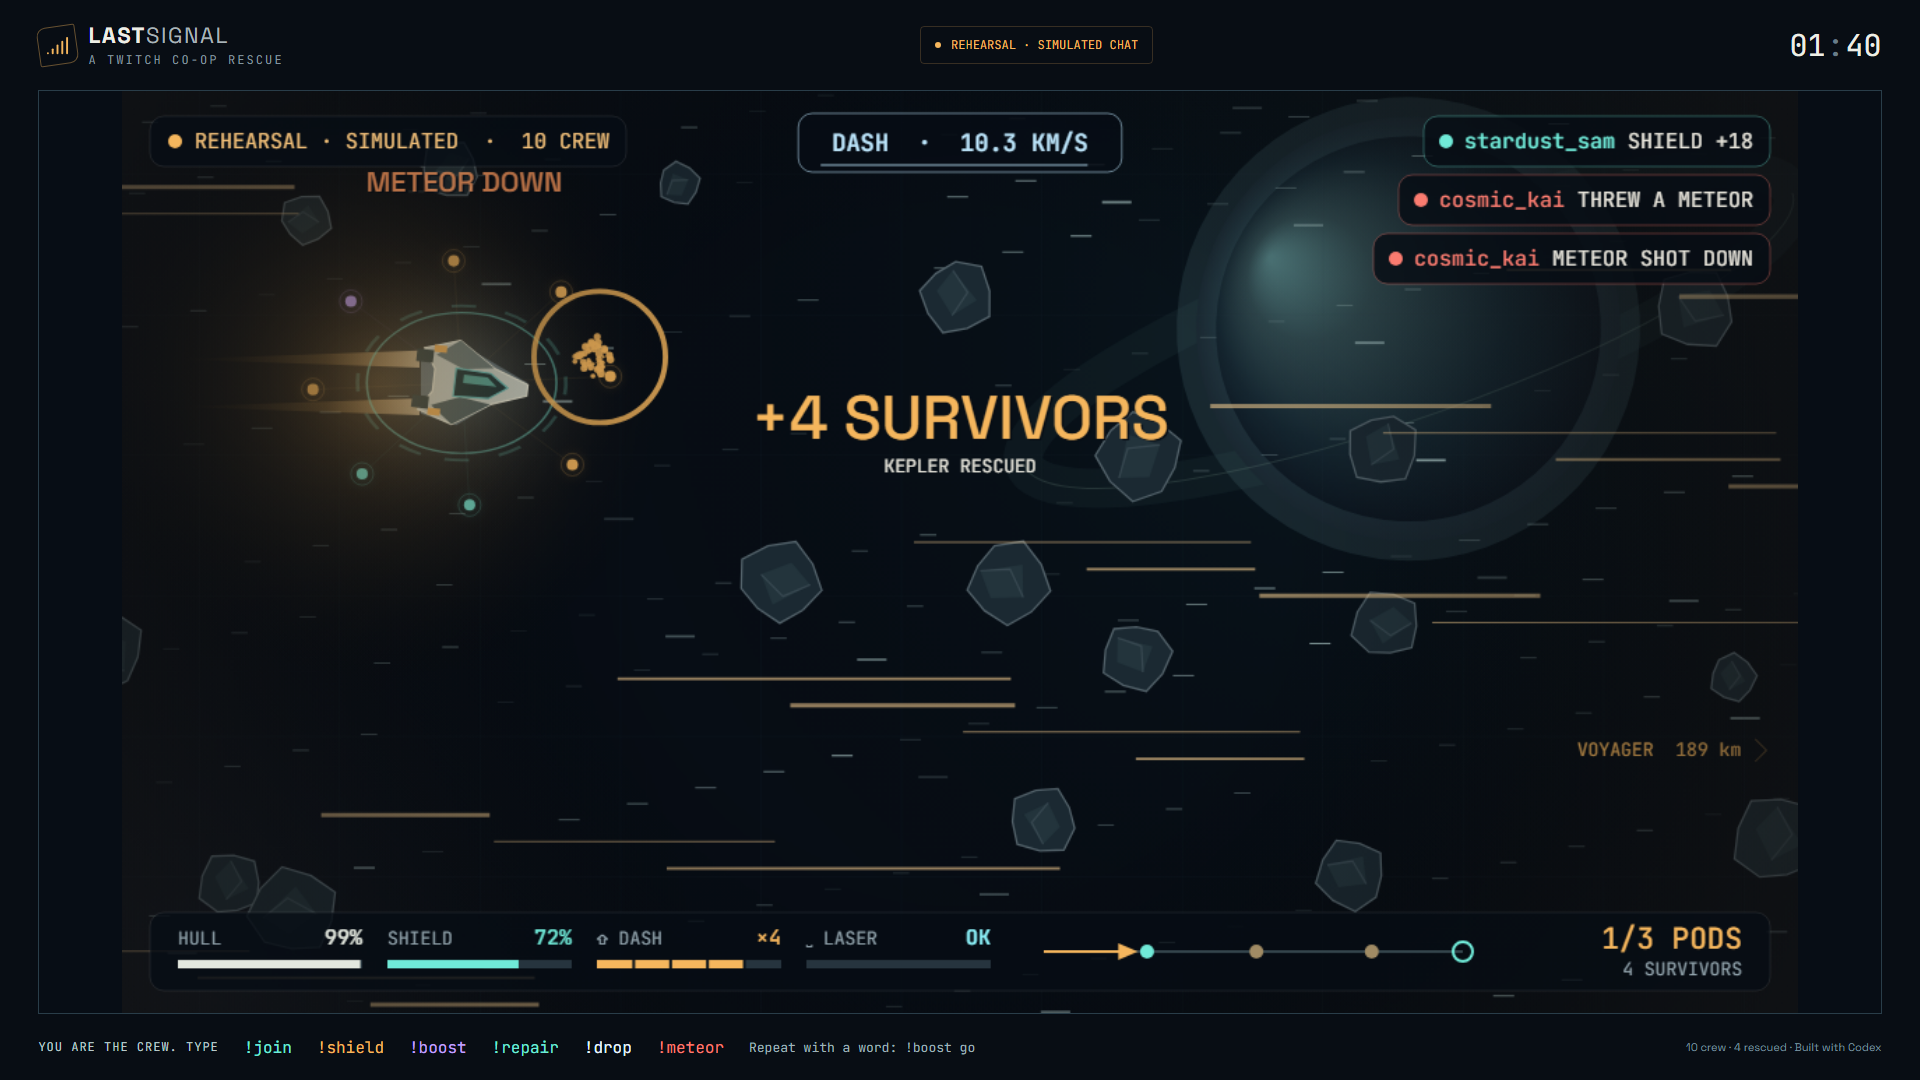
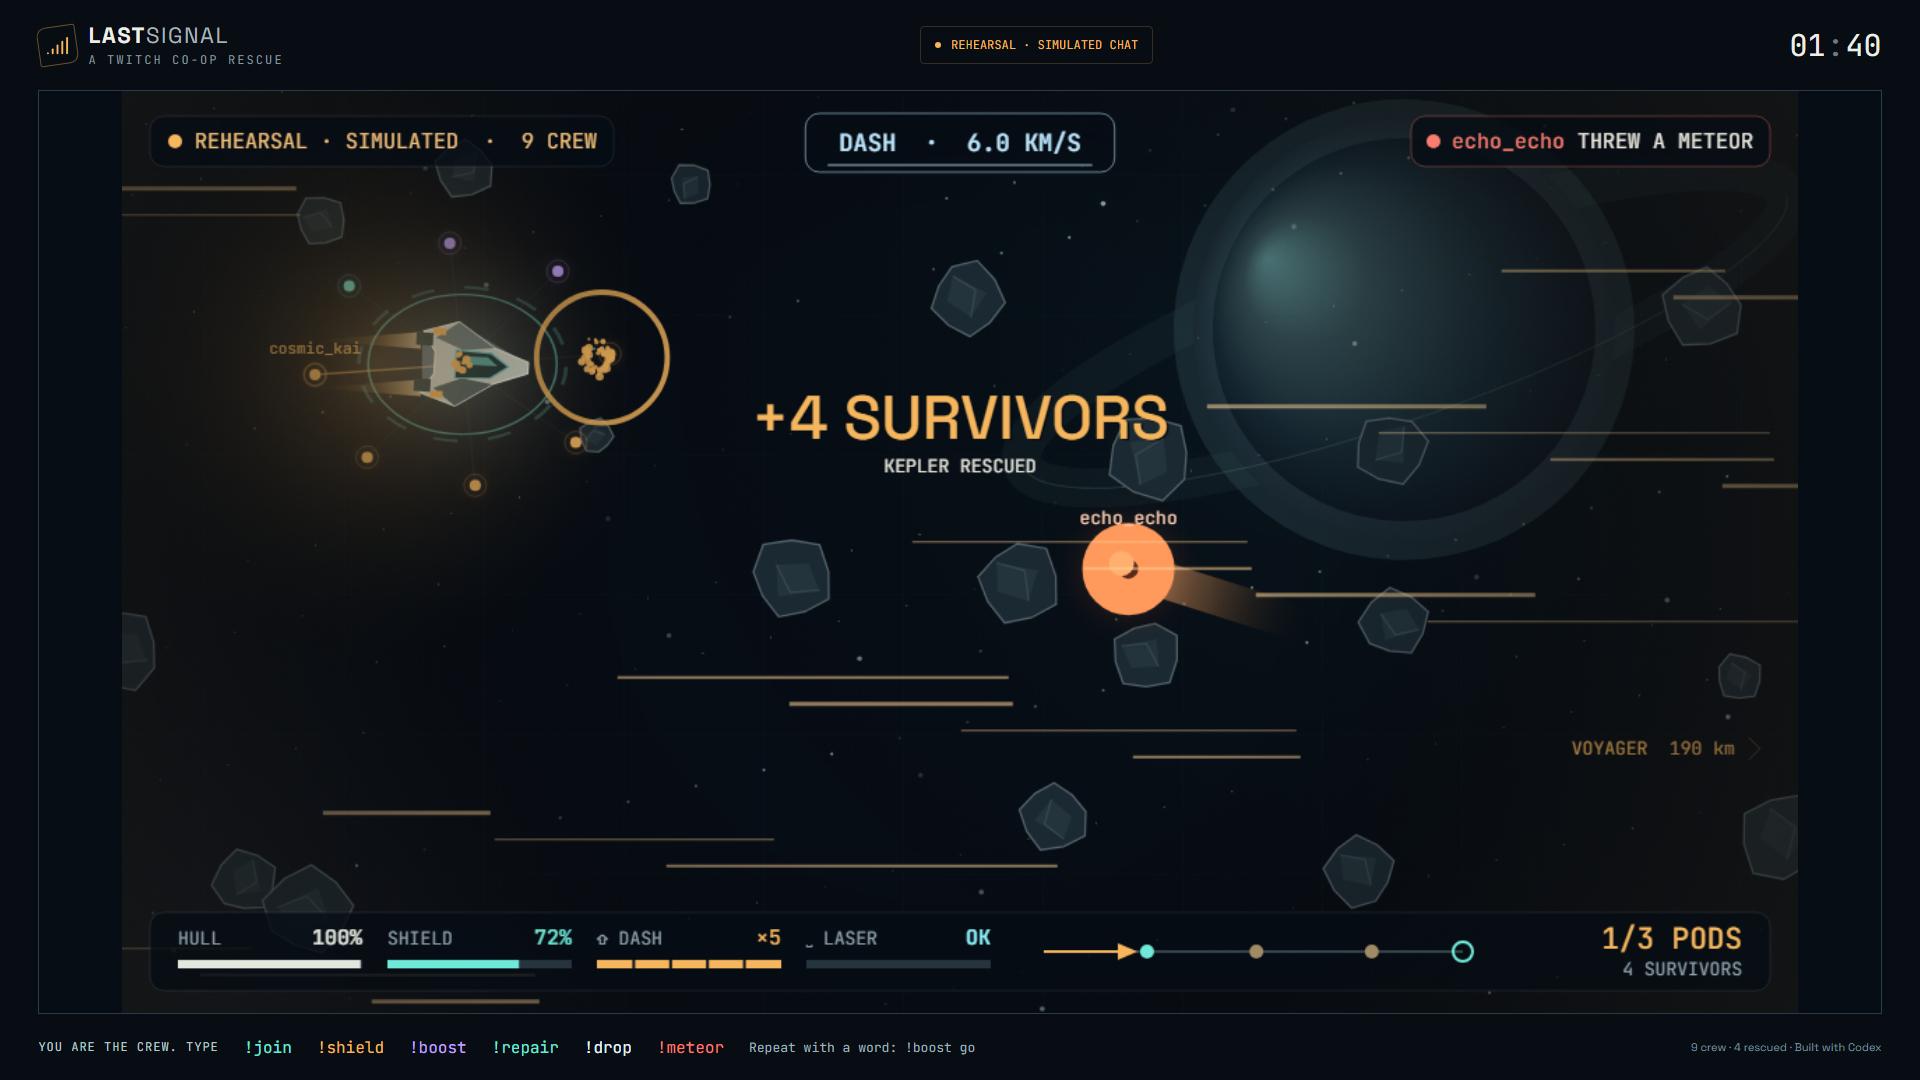
Refresh sharp gameplay showcase and gallery assets

diff --git a/docs/VALIDATION.md b/docs/VALIDATION.md
@@ -35,4 +35,10 @@ Both final exports decoded without errors. Sampled frames confirmed the nova cle
 
 At 19:11 UTC on 2026-11-02, actual Twitch viewer `anashk999` sent `!join`, `!boost`, `!drop`, and `!meteor` in `#anashk123`. The live adapter accepted all four commands. The game spawned the named bubble-shield crate and meteor; the crate was caught and the viewer credited. The recorded live mission was in live mode with simulation and training pilot disabled, and finished with all 13 survivors. The connection dialog confirmed four real received messages. Exact command receipts and mission events are preserved locally in `artifacts/live-proof/recording.json`.
 
-The revised videos include a separate real-Twitch segment and the connection confirmation. Rehearsal command visualization is labeled simulated; the actual Twitch segment displays only commands received from Twitch. The gameplay area uses motion interpolation for 60 fps delivery; chat text is kept separate from interpolation to remain sharp.
+The revised videos include a separate real-Twitch segment and the connection confirmation. Rehearsal command visualization is labeled simulated; the actual Twitch segment displays only commands received from Twitch. The latest capture was recorded at 1920x1080 and encoded at 60 fps without motion interpolation, preserving the original gameplay detail and keeping chat text sharp.
+
+## Sharp capture and steering revision
+
+The latest main showcase was re-recorded at 1920x1080 using a high-resolution canvas in a headed browser, with capture separated from encoding. The recorded compositor averaged 58.18 fps including the ending screenshots; the 95th-percentile frame gap was 16.8 ms. Gameplay logging confirmed all four keys were used: W 103, S 109, A 187, D 183 controller samples. Ship X ranged from 85 to 611 and Y from 85 to 577. The mission recovered all 13 survivors and demonstrated nova, bubble and overdrive.
+
+The low-resolution motion-interpolation stage was removed. The voiceover version uses a clean master with no added subtitles in either the rehearsal or real Twitch segment. The separate version without narration retains embedded captions. Both retain game audio and the actual Twitch command/connection proof.

diff --git a/docs/DEMO_SCRIPT.md b/docs/DEMO_SCRIPT.md
@@ -2,7 +2,7 @@
 
 Two 1080p H.264/AAC exports are available in the GitHub release:
 
-- `last-signal-voiceover-game-audio.mp4`: Grady neural narration, embedded captions, game music and effects. The narration uses Seed Audio 1.0 through Higgsfield and is AI-generated.
+- `last-signal-voiceover-game-audio.mp4`: Grady neural narration and game music/effects, with no added subtitles. The narration uses Seed Audio 1.0 through Higgsfield and is AI-generated.
 - `last-signal-captions-game-audio.mp4`: embedded captions, game music and effects, with no narration.
 
 Both run for approximately 2:18. Captions occupy a separate lower band, keeping the flight HUD visible. Music ducks under narration in the voiceover version. The gameplay is continuous, followed by the result card from the same mission. The recording rescued all 13 survivors and shows nova bomb, bubble shield and overdrive guns being caught and fired, plus laser fire, dashes, named meteors and ALL HANDS.
@@ -18,4 +18,4 @@ The footage uses labeled simulated chat and automated keyboard control with the 
 
 The recording harness fails if all three power-ups are not demonstrated. Keep the rehearsal label visible. Inspect both exports, then upload the preferred version to YouTube as Public and check the URL while signed out.
 
-The revised exports include a visible crew-chat panel, a separate actual Twitch segment, and confirmed connection status. Rehearsal commands are labeled simulated; the live panel contains actual commands received from Twitch. Gameplay uses motion interpolation for 60 fps delivery, with chat and fixed HUD text kept sharp. Run `node scripts/append-live-proof.mjs` after exporting and mixing to generate the final videos in `artifacts/submission`.
+The revised exports include a visible crew-chat panel, a separate actual Twitch segment, and confirmed connection status. Rehearsal commands are labeled simulated; the live panel contains actual commands received from Twitch. The latest showcase preserves the full-resolution recording without low-resolution motion interpolation. Run `node scripts/append-live-proof.mjs` after exporting and mixing to generate the final videos in `artifacts/submission`.

diff --git a/docs/GALLERY.md b/docs/GALLERY.md
@@ -41,7 +41,7 @@ You fly. Chat keeps you alive.
 
 LAST SIGNAL is a Twitch co-op space rescue. The pilot steers, fires a laser, dashes with fuel from chat, and fires caught power-ups with E. Viewers board with !join, supply !shield, !boost and !repair, send crates with !drop, or throw named meteors with !meteor. Three distinct viewers coordinating the three stations trigger ALL HANDS. Rescue three pods and bring 13 survivors home before the two-minute jump window closes.
 
-The demo captures the actual game with labeled simulated chat, keyboard-controlled flight, all three power-ups being caught and fired, laser fire, dashes, named meteors, and a complete rescue of all 13 survivors. It uses automated keyboard control with the built-in training pilot disabled. Both versions include captured game music and effects and captions embedded below the flight HUD. The voiceover version uses AI-generated Grady narration through Higgsfield; the other version has no narration.
+The demo captures the actual game with labeled simulated chat, keyboard-controlled flight, all three power-ups being caught and fired, laser fire, dashes, named meteors, and a complete rescue of all 13 survivors. It uses automated keyboard control with the built-in training pilot disabled. Both versions include captured game music and effects. Only the version without narration has embedded captions; the voiceover version has no added subtitles. The voiceover version uses AI-generated Grady narration through Higgsfield; the other version has no narration.
 
 The video also shows real Twitch viewer anashk999 sending join, boost, drop and meteor, all accepted by the live game. The connection dialog confirms four actual messages received. OAuth/EventSub remains optional and fixture-tested.
 

diff --git a/docs/SUBMISSION.md b/docs/SUBMISSION.md
@@ -3,7 +3,7 @@
 ## Current upload package (2026-11-02)
 
 - Source and download bundle: https://github.com/Anas-HK/last-signal/releases/tag/v1.0.0
-- Fresh demos: `last-signal-voiceover-game-audio.mp4` and `last-signal-captions-game-audio.mp4`, each approximately 2:18, 1920x1080 H.264/AAC, embedded captions and actual game music/effects. The voiceover version uses AI-generated Grady narration.
+- Fresh demos: `last-signal-voiceover-game-audio.mp4` and `last-signal-captions-game-audio.mp4`, each approximately 2:18, 1920x1080 H.264/AAC, with actual game music/effects. The voiceover version uses AI-generated Grady narration without added subtitles; the second version has embedded captions and no narration.
 - Gallery: `last-signal-gallery.zip`, with current screenshots, captions, project description, video upload copy and validation notes.
 - Game verification: 34 engine/adapter tests and 11 browser journeys passed; see `VALIDATION.md` for evidence and limits.
 - Use `PROJECT_DESCRIPTION.md` for submission text and `GALLERY.md` for image ordering/captions and YouTube copy.
